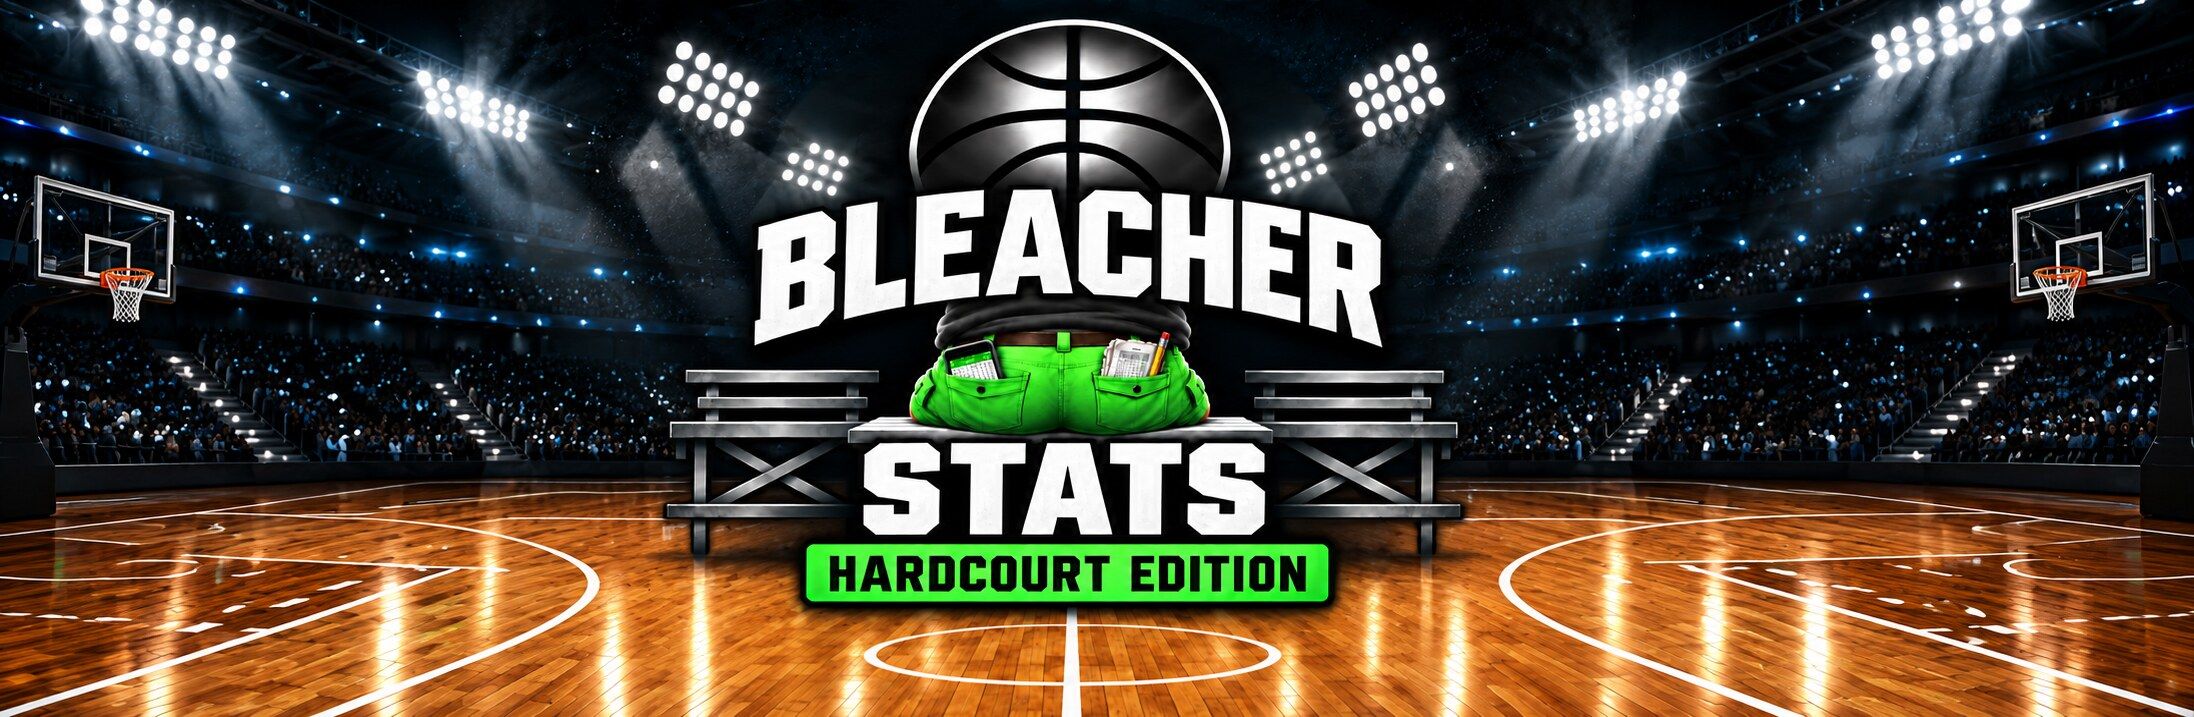
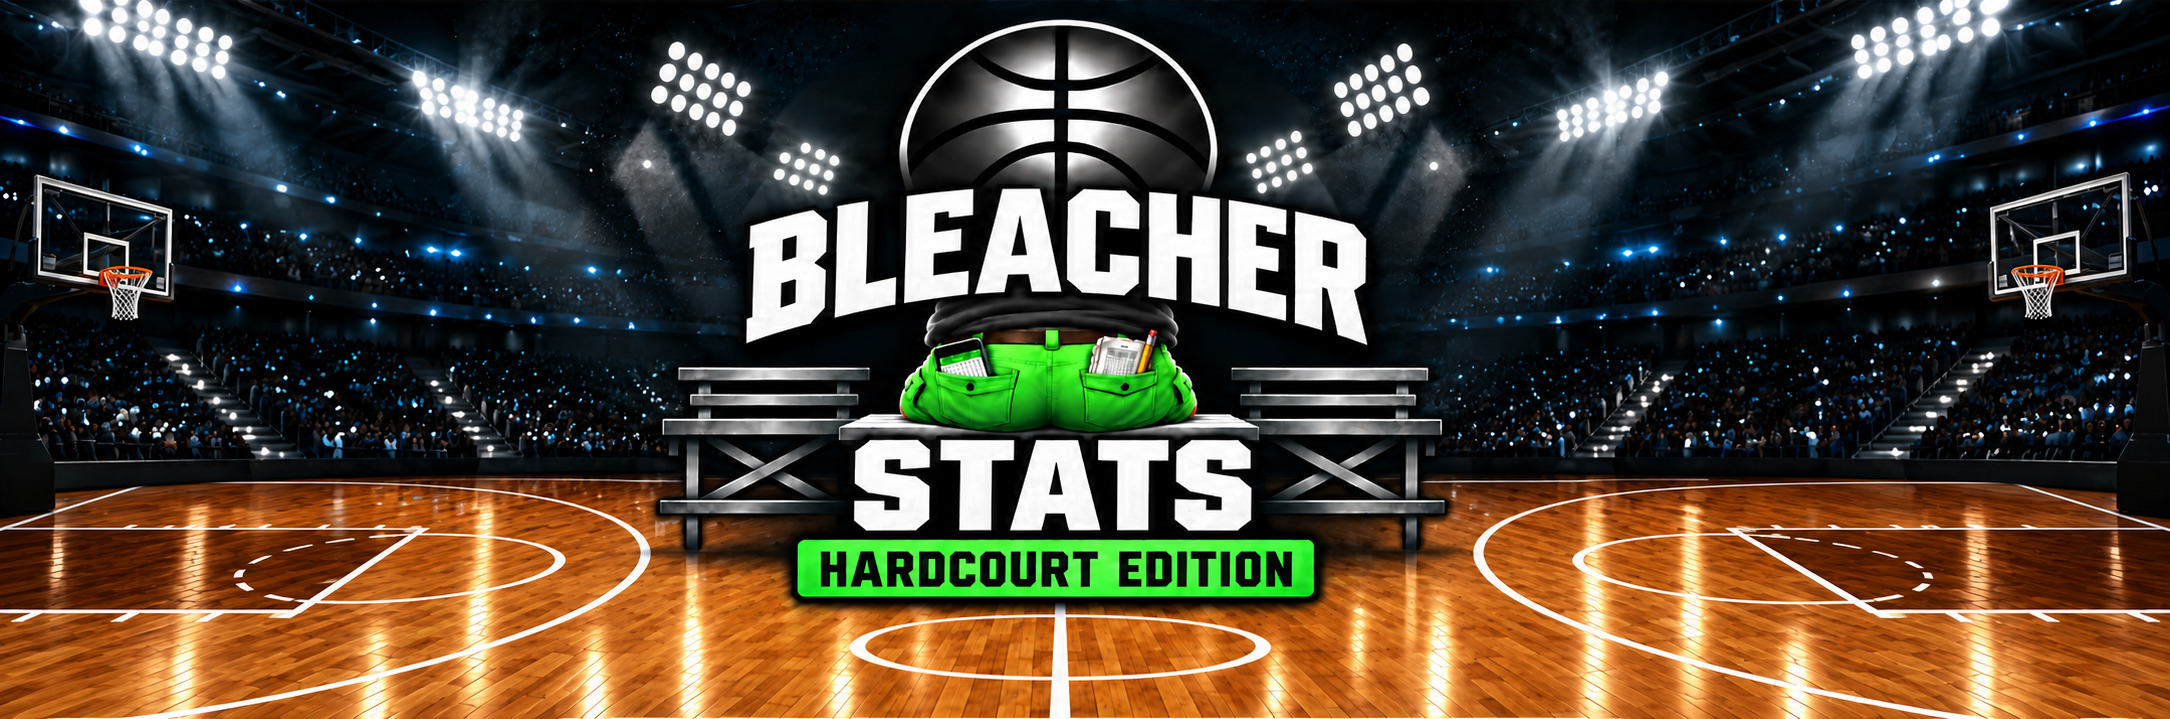
UI69: correct responsive Hardcourt header artwork

diff --git a/hardcourt/index.html b/hardcourt/index.html
@@ -1029,7 +1029,7 @@ body:not(.game-active) .team-menu-trigger{display:none!important}
 .hardcourt-arena-header{
  position:absolute!important;inset:0!important;display:block!important;
  width:100%!important;height:100%!important;min-width:100%!important;
- max-width:none!important;max-height:none!important;object-fit:fill!important;object-position:center!important;
+ max-width:none!important;max-height:none!important;object-fit:cover!important;object-position:center!important;
  margin:0!important;padding:0!important;border:0!important;
 }
 .hc-brand-logo{
@@ -1044,7 +1044,7 @@ body:not(.game-active) .team-menu-trigger{display:none!important}
 @media(min-width:900px){
  #rosterView .product-header,#timeView .product-header,#statsView .product-header,
  #analyticsView .product-header,#playerView .product-header{
-   height:220px!important;min-height:220px!important;
+   height:260px!important;min-height:260px!important;
  }
 }
 @media(max-width:899px) and (orientation:portrait){
@@ -1146,4 +1146,4 @@ body:not(.game-active) .team-menu-trigger{display:none!important}
 <section id="playerView" class="view hidden content"><div class="product-header"></div><button id="backStats" class="back-btn">← Back to Stats</button><div id="playerDetail"></div><div id="playerCourt" class="analytics-court player-court"></div></section>
 <section id="analyticsView" class="view hidden content"><div class="product-header"></div><h2>Analytics</h2><article class="shooting-card"><div class="shooting-head"><h3>Shooting</h3><div class="shot-filters"><label>Player<select id="shotPlayerFilter"></select></label><label>Time<select id="shotTimeFilter"><option value="game">Full Game</option><option value="first">1st Half</option><option value="second">2nd Half</option></select></label><label>Period<select id="shotPeriodFilter"><option value="all">All</option></select></label><label>Shot<select id="shotTypeFilter"><option value="all">All Shots</option><option value="2">2PT</option><option value="3">3PT</option></select></label></div></div><div id="chartMode" class="seg chart-mode"><button data-chart="shots" class="active">Shots</button><button data-chart="heat">Heat Map</button><button data-chart="both">Both</button></div><p id="shootingSummary"></p><div id="analyticsCourt" class="analytics-court"></div><div class="heat-legend"><span>Cold</span><i></i><span>Hot</span><span class="dot-legend">● Make &nbsp; ● Miss</span></div><h3>By Zone</h3><div id="zoneTable" class="zone-table"></div></article><section class="analytics-detail-shell"><div class="analytics-detail-heading"><div><small>TEAM INSIGHTS</small><h3>Beyond the Shot Chart</h3></div><span>Visual analysis</span></div><div id="analyticsDetailTabs" class="analytics-detail-tabs"><button type="button" class="active" data-analytics-detail="fast">⚡ Fast Break</button><button type="button" data-analytics-detail="lineups">⑤ Lineups</button><button type="button" data-analytics-detail="impact">↕ Player Impact</button></div><div id="analyticsDetailContent"></div></section></section>
 <nav><button data-tab="roster"><span class="nav-icon">👥</span><span>Roster</span></button><button class="active" data-tab="game"><span class="nav-icon">🏀</span><span>Game</span></button><button data-tab="time"><span class="nav-icon">✅</span><span>Playing Time</span></button><button data-tab="stats"><span class="nav-icon">📊</span><span>Stats</span></button><button data-tab="analytics"><span class="nav-icon">📈</span><span>Analytics</span></button></nav></section>
-<div id="modal" class="modal hidden"><div class="modal-card"><h2 id="modalTitle"></h2><div id="modalBody"></div><button id="modalClose">Cancel</button></div></div></div><script type="module" src="./app.js?v=20260922-ui68"></script></body></html>
+<div id="modal" class="modal hidden"><div class="modal-card"><h2 id="modalTitle"></h2><div id="modalBody"></div><button id="modalClose">Cancel</button></div></div></div><script type="module" src="./app.js?v=20260922-ui69"></script></body></html>

diff --git a/hardcourt/app.js b/hardcourt/app.js
@@ -62,7 +62,7 @@ function setupRoster(){if(!roster.length)roster=defaults.map(p=>({...p}));if(sta
 applyProfileToSetup();setupRoster();$("setupEditTeam").onclick=openTeamEditor;
 ["teamLogo","oppLogo"].forEach(id=>{const el=$(id);if(el)el.onchange=()=>fileData(el.files[0],d=>{state[id]=d;save()})});
 $("startGame").onclick=()=>{let a=[...document.querySelectorAll("[data-start]:checked")].map(x=>x.dataset.start);if(a.length!==5){a=roster.slice(0,5).map(p=>p.id);state.active=[...a];setupRoster()}$("setupError").textContent="";Object.assign(state,{active:a,clockMs:+$("periodMinutes").value*60000,periodMinutes:+$("periodMinutes").value,periods:+$("periodMode").value,opp:$("oppName").value,gameType:$("gameType").value,offenseRight:$("startDirection").value==="right",foulLimit:+$("foulLimit").value,bonusRule:$("bonusRule").value,timeoutMode:$("timeoutMode").value,timeoutCount:+$("timeoutCount").value,otMinutes:+$("otMinutes").value,timeoutsUs:+$("timeoutCount").value,timeoutsOpp:+$("timeoutCount").value,gameStartedAt:state.gameStartedAt||Date.now()});startUI();save();syncRosterCloud()};
-function productHeaders(){document.querySelectorAll(".product-header").forEach(h=>{h.innerHTML='<img class="hardcourt-arena-header" src="./hardcourt-header-arena.jpg?v=ui68" alt="Bleacher Butt Stats Hardcourt Edition">';h.removeAttribute("role");h.removeAttribute("aria-label")})}
+function productHeaders(){document.querySelectorAll(".product-header").forEach(h=>{h.innerHTML='<img class="hardcourt-arena-header" src="./hardcourt-header-arena.jpg?v=ui69" alt="Bleacher Butt Stats Hardcourt Edition">';h.removeAttribute("role");h.removeAttribute("aria-label")})}
 function openTeamEditor(){openModal("Edit Team",'<div class="team-editor"><label>Team name<input id="editTeamName"></label><label>Grade<select id="editGrade"><option>5th Grade</option><option>6th Grade</option><option>7th Grade</option><option>8th Grade</option></select></label><label>Division<input id="editDivision"></label><div class="team-color-row"><label>Primary<input id="editPrimary" type="color"></label><label>Accent<input id="editAccent" type="color"></label></div><label>Team logo<input id="editTeamLogo" type="file" accept="image/*"></label><button id="saveTeamProfile" class="primary">Save Team</button></div>');$("editTeamName").value=state.team||"";$("editGrade").value=state.grade||"5th Grade";$("editDivision").value=state.division||"";$("editPrimary").value=state.primary||"#111111";$("editAccent").value=state.accent||"#39a852";let nextLogo=state.teamLogo||"";$("editTeamLogo").onchange=()=>fileData($("editTeamLogo").files[0],d=>nextLogo=d);$("saveTeamProfile").onclick=()=>{state.team=$("editTeamName").value.trim()||state.team;state.grade=$("editGrade").value;state.division=$("editDivision").value.trim();state.primary=$("editPrimary").value;state.accent=$("editAccent").value;state.teamLogo=nextLogo;closeModal();applyProfileToSetup();startUI();save(true);syncRosterCloud()}}
 function parseClockInput(v){
   const m=String(v||"").trim().match(/^(\d{1,2}):(\d{2})$/);

diff --git a/hardcourt/service-worker.js b/hardcourt/service-worker.js
@@ -1,5 +1,5 @@
-const CACHE="hardcourt-ui68-20260922";
-const ASSETS=["./","./index.html","./styles.css?v=ui53","./app.js?v=20260922-ui68","./engine.js","./manifest.webmanifest?v=ui53","./court-iphone.png","./court-ipad.png","./court-analytics.png","./hardcourt-header-arena.jpg?v=ui68"];
+const CACHE="hardcourt-ui69-20260922";
+const ASSETS=["./","./index.html","./styles.css?v=ui53","./app.js?v=20260922-ui69","./engine.js","./manifest.webmanifest?v=ui53","./court-iphone.png","./court-ipad.png","./court-analytics.png","./hardcourt-header-arena.jpg?v=ui69"];
 self.addEventListener("install",e=>e.waitUntil(caches.open(CACHE).then(async c=>{for(const asset of ASSETS){try{const r=await fetch(asset,{cache:"reload"});if(r.ok)await c.put(asset,r.clone())}catch(_){}}}).then(()=>self.skipWaiting())));
 self.addEventListener("activate",e=>e.waitUntil(caches.keys().then(k=>Promise.all(k.filter(x=>x.startsWith("hardcourt-")&&x!==CACHE).map(x=>caches.delete(x)))).then(()=>self.clients.claim())));
 self.addEventListener("message",e=>{if(e.data==="SKIP_WAITING")self.skipWaiting()});
